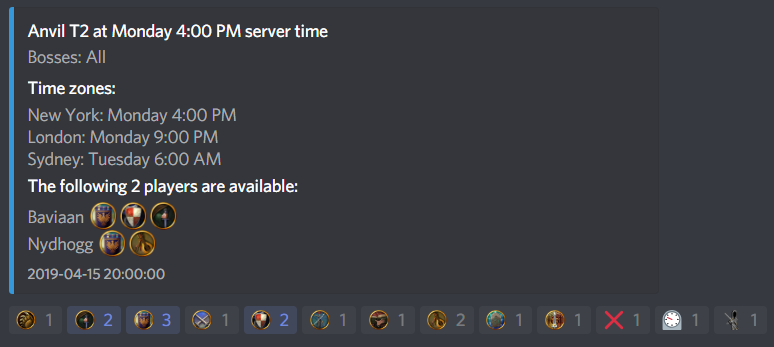
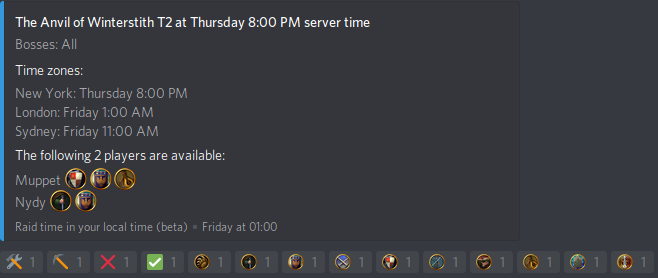
documentation update

Changed region(s): [[0.0, 0.0, 0.5775, 0.8633], [0.0, 0.8633, 1.0, 0.9784]]

diff --git a/README.md b/README.md
@@ -8,11 +8,11 @@ dateparser >= 0.7.1 (`python3 -m pip install -U dateparser`)
 
 This is a discord bot aimed at making it easy to schedule raids in a discord server. It is developed for LotRO but could work for any game if you edit the class names in the config file.
 
-When the `!raid` command is called the bot will create an embed specifying the raid time in server time, New York's, London's and Sydney's time. Server time is configurable. The bot will add class emojis to this embed for users to interact with. When a user clicks on a class emoji it will update the embed listing the user's nickname and available classes. Moreover it will add a boss emoji and a timer emoji that allows the raid leader to change these values. A user can sign up with all his classes by clicking the green check mark (not shown on screenshot) and cancel his sign up by clicking the red cross.
+When the `!raid` command is called the bot will create an embed specifying the raid time in server time, New York's, London's and Sydney's time. Server time is configurable. The bot will add class emojis to this embed for users to interact with. When a user clicks on a class emoji it will update the embed listing the user's discord nickname and available classes. Moreover it will add tools, pickaxe, check mark and cross mark emojis. A user can sign up with all his classes by clicking the green check mark and cancel his sign up by clicking the red cross mark. The tools emoji can only be used by raid leaders to update the raid bosses, raid time or roster settings. If roster is enabled, the pickaxe emoji can be used by raid leaders to pick people for the raid from available sign ups.
 
 ![Screenshot](./screenshots/raid.png)
 
-In addition the bot will create a "role post" that allows users to sign up for mentionable class roles by interacting through class emojis. If you want to use the green check mark to sign up for raids you must sign up for your classes' roles. There is also an experimental apply feature that asks a user two standard questions.
+In addition the bot will create a "role post" that allows users to sign up for mentionable class roles by interacting through class emojis. If you want to use the green check mark to sign up for raids you must sign up for your classes' roles. There is also an experimental apply feature that asks a user two standard questions. This must be configured in a separate channel from the channel used to create raids.
 
 ![Screenshot](./screenshots/role.png)
 
@@ -22,7 +22,6 @@ Config file values:\
 BOT_TOKEN: Your discord's bot token (this is not the client secret).\
 CLASSES: The classes in your game. Note your discord server must have custom emojis named exactly the same. Emojis for LotRO are included, you can upload these to your discord server.\
 CHANNELS: The role post will be posted to the BOT channel. This channel will be purged so do NOT use a channel with info you want to keep. (In particular do not post your raids in the BOT channel.) Any incoming applications will be posted to the APPLY channel, so this should be officer only.\
-BOSS: Custom boss emoji used to update raid boss info on a raid post.\
 LEADER: Name of the discord role that will be allowed to update bosses and times for raid post.\
 SERVER_TZ: The raid time in the header of the embed will be posted in this timezone. (Requires TZ database name)
 
